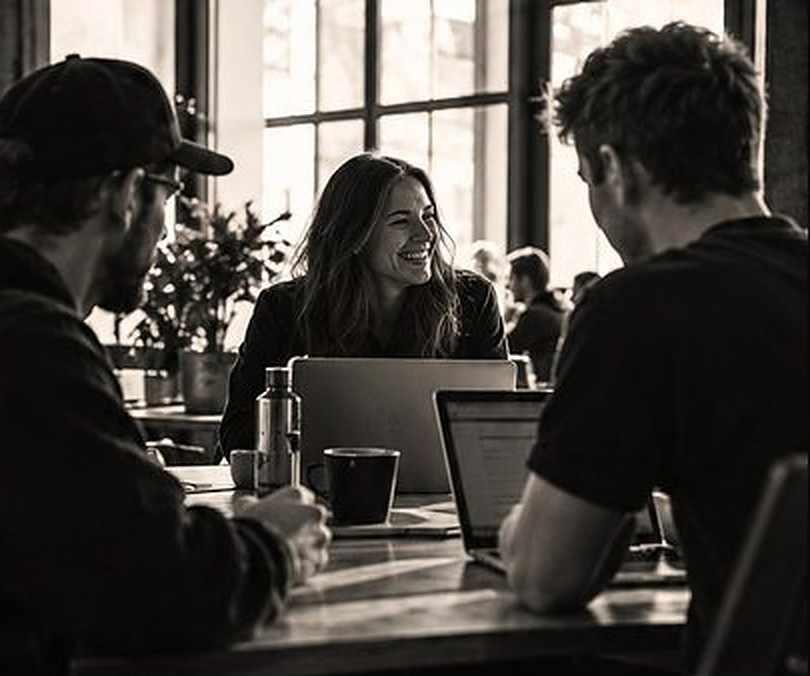
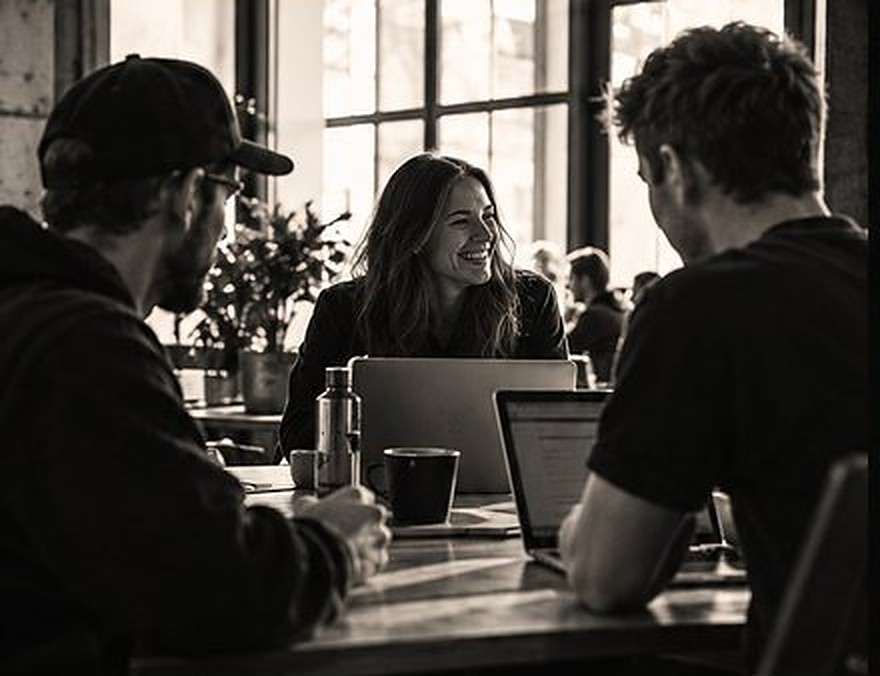
Community-Post: Bildausschnitt nach links, Mann mit Kappe ganz im Bild
Claude-Session: https://claude.ai/code/session_013fteYFceKiG7Uk7Z2ie8Jy

diff --git a/marketing/community/ad/post.html b/marketing/community/ad/post.html
@@ -12,7 +12,7 @@
 .k{font:600 22px Montserrat;letter-spacing:.2em;text-transform:uppercase;color:var(--mute);margin-bottom:12px}.k.b{color:var(--blue)}
 .t{font:700 60px/.98 Oswald;text-transform:uppercase}.t em{font-style:normal;color:var(--blue)}
 .line{height:3px;background:var(--ink);width:80px}
-.maik{flex:none;width:430px;background:url(../img/laptop_runde.jpg) 55% center/cover;filter:grayscale(1) contrast(1.05);border:3px solid var(--ink);position:relative}
+.maik{flex:none;width:430px;background:url(../img/laptop_runde.jpg) 8% center/cover;filter:grayscale(1) contrast(1.05);border:3px solid var(--ink);position:relative}
 .maik span{position:absolute;left:0;bottom:0;background:var(--ink);color:#fff;font:600 19px Montserrat;letter-spacing:.14em;text-transform:uppercase;padding:12px 16px}
 .cta{background:var(--ink);color:#fff;font:700 64px/1 Oswald;text-transform:uppercase;padding:34px 38px;align-items:center;display:flex;justify-content:space-between}.cta em{font-style:normal;color:var(--blue)}
 .sol{font:700 112px/.9 Oswald;text-transform:uppercase}.sol em{font-style:normal;color:var(--blue)}.txt{justify-content:flex-end!important}.p{gap:36px!important}</style></head><body><div class="p">
